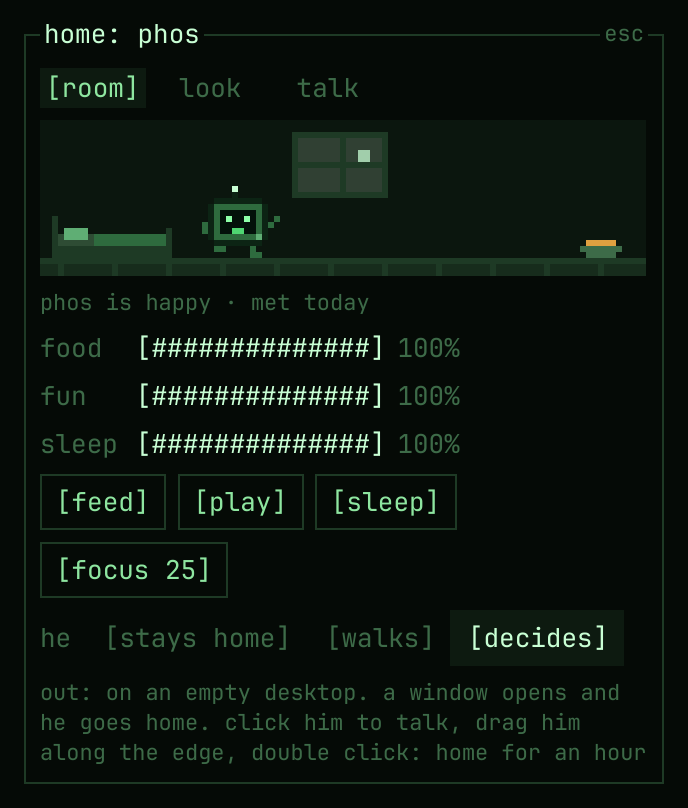
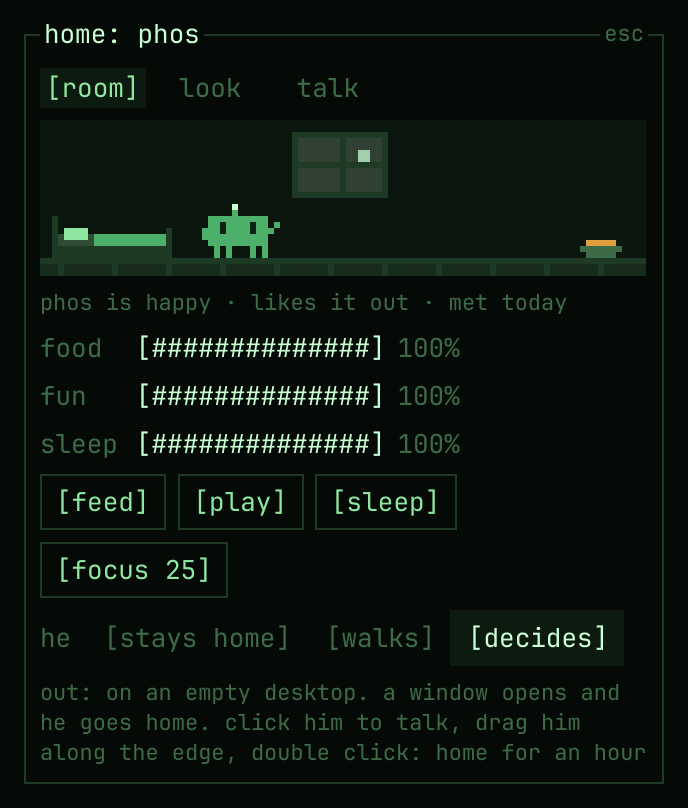
readme: the new plain companions in the pictures, the cfg pages named where a setting lives, windows at their own size, the monitors asked again on a second run

diff --git a/README.md b/README.md
@@ -77,19 +77,20 @@ and running it again is safe. More below: [what the installer does](#what-the-in
 | style | wallpapers (arrow keys to pick) + themes: `mono` `amber` `phosphor` `thinkpad` and `wallpaper` (colors taken from the wallpaper: background, borders, terminal, in calm / strong / full strength), each dark (CRT) or light (paper); your own in `~/.config/kawt/themes.json` (see [your own look](#your-own-look)). With awww installed kawt starts its daemon itself, at login with the last wallpaper: no line in hyprland's config. A new one by itself every 15 min … 3 h if you like (the next in the folder or a random one), with awww's transition picked there: `crt` (drawn in from the top, in steps, like an old screen's beam), fade, grow, random or none |
 | theme export | switching themes recolors open terminals and GTK apps (thunar) live and rewrites colors for kitty, Hyprland borders, GTK, foot, alacritty and shell scripts, and kawt's folder icons; terminal colors in three looks: `crt` (monochrome ink), `soft` (calm, in the theme's hues), `vivid` (bright) |
 | coder | `[coder]` in the ai panel: an agent working in one project folder you pick. It lists, searches and reads files by itself; every change comes as a diff to `[apply]` or `[skip]`; `[undo]` puts back everything it changed. Nothing outside the folder can be touched. With `bubblewrap` it can also ask to run a command (tests, a build): each one waits for `[run]`, then goes into a sandbox with no network, the system read-only and the project the only writable place (its `.git` read-only too, so no hooks), a time limit, 2 GB, output cut at 64 KB; or in podman with an image you pulled (ai → cfg). What a command changed isn't in `[undo]`: that's what git is for. Wide mode shows its thinking as a small ascii network |
+| windows | profile → cfg → windows: the open windows, rofi-like with a `find>`; pick an app and from then on it floats at the size it asks for, in the middle, instead of stretched by the tiling (open ones change at once; a hyprland.lua is needed, kawt's list is lua) |
 | companion | a little pixel friend in `[⌂]`: he lives in the bar, walks on an empty desktop and works next to the coder. [below](#the-companion) |
-| lock | a terminal-style lock screen (`kawt lockTest` tries it safely: it unlocks itself after 30 s). It locks by itself before the machine sleeps (the lid, `systemctl suspend`, anything), on `loginctl lock-session`, and after 10 idle minutes (on a laptop the backlight dims 30 s before). A minute after locking the picture goes off: only the picture, wifi, music and downloads keep going, and any key or the mouse brings it back (off / 1 / 2 / 5 min in profile → cfg). `[caf]` in the profile keeps the screen on. The lock screen says `[!] caps lock is on` when it is. No hypridle / hyprlock needed. Behind the lock kawt rests too: the net graph, brightness, cava and the bar's animations pause |
+| lock | a terminal-style lock screen (`kawt lockTest` tries it safely: it unlocks itself after 30 s). It locks by itself before the machine sleeps (the lid, `systemctl suspend`, anything), on `loginctl lock-session`, and after 10 idle minutes (on a laptop the backlight dims 30 s before). A minute after locking the picture goes off: only the picture, wifi, music and downloads keep going, and any key or the mouse brings it back (off / 1 / 2 / 5 min in profile → cfg → screen). `[caf]` in the profile keeps the screen on. The lock screen says `[!] caps lock is on` when it is. No hypridle / hyprlock needed. Behind the lock kawt rests too: the net graph, brightness, cava and the bar's animations pause |
 | osd | volume / brightness pop up when they change; plugging the charger in or out shows the battery; low battery notifies at 20 / 10 / 5% |
 | bluetooth | `[bt airpods 80%]`: on/off, scan, pair, connect, forget, headphone battery |
 | mic | `[mic ● discord]` appears while an app records you (red), click to mute |
 | player | `[> ▂▅▃▇▂]` next to the clock (real sound with `cava`); click: the cover as an old phosphor screen shows it (a few big pixels in the theme's color), a wide spectrum, `[-10] [<<] [||] [>>] [+10]`, a position bar to click, drag or scroll, shuffle and loop, the player's own volume, tabs when several play (spotify / firefox / mpv: the bar and the media keys follow the one picked, or the last one started) and this session's tracks (click copies "artist — title", nothing is written down). Keys inside: `space` `←→` `↑↓` `n` `p` `s` `r` `tab`. Covers that live online (spotify's) load only after `[cover load from the net]` |
-| recording | `[● rec 0:42]` in the bar; area or whole screen; sound: off, the mic, what you hear, or both mixed (profile → cfg) |
-| screenshots | area / window / screen; the screen stands still while you pick the area (`hyprpicker`); a preview in the corner asks: `[copy]` `[save]` `[open]`, `[edit]` (arrows, boxes, text, blur in `satty`) and `[text]` (what's written in the shot, onto the clipboard, with `tesseract`) (click the picture: open, right click: away; left alone, it goes and nothing is kept). `[x] ask` off in profile → cfg: saved and copied at once, like before |
+| recording | `[● rec 0:42]` in the bar; area or whole screen; sound: off, the mic, what you hear, or both mixed (profile → cfg → media) |
+| screenshots | area / window / screen; the screen stands still while you pick the area (`hyprpicker`); a preview in the corner asks: `[copy]` `[save]` `[open]`, `[edit]` (arrows, boxes, text, blur in `satty`) and `[text]` (what's written in the shot, onto the clipboard, with `tesseract`) (click the picture: open, right click: away; left alone, it goes and nothing is kept). `[x] ask` off in profile → cfg → media: saved and copied at once, like before |
 | fastfetch | short system info next to your system's own logo (arch on arch), a `[####----]` memory meter, in the current theme's colors (rewritten on every theme switch); nothing that says who or where you are (no user@host, laptop model or addresses), so it's safe to screenshot |
 | prompt | for zsh (plain zsh, oh-my-zsh not needed): `┌[user]─[~/dir]─[branch*]` / `└$` (`[user@host]` only over ssh), the time on the right, the exit code when a command fails; while typing, the rest of a command from history (→ takes it) and the command marked: accent if it exists, warn if it's a typo; in the theme's own accent / dim / warn colors, switching with it at the next prompt |
 | night light | warmer colors in the `[br]` panel or the profile's cfg (runs `hyprsunset`) |
-| bar | at the top or the bottom, its height and buttons in profile → cfg; `super + shift + b` tucks it away (no room taken, a 2 px edge: touch it with the pointer and the bar comes out over the windows until you leave) |
-| also | wifi (hidden networks too: `[+ hidden network]` in the panel), volume per app, brightness (on a desktop the monitors' own, over DDC/CI with `ddcutil`), battery + power profiles, calendar, tray, keyboard layout (and, if you switch it on in profile → cfg, a layout per window: each keeps its own, a new one starts with the first) |
+| bar | at the top or the bottom, its height and buttons in profile → cfg → look; `super + shift + b` tucks it away (no room taken, a 2 px edge: touch it with the pointer and the bar comes out over the windows until you leave) |
+| also | wifi (hidden networks too: `[+ hidden network]` in the panel), volume per app, brightness (on a desktop the monitors' own, over DDC/CI with `ddcutil`), battery + power profiles, calendar, tray, keyboard layout (and, if you switch it on in profile → cfg → device, a layout per window: each keeps its own, a new one starts with the first) |
 
 ## The companion
 
@@ -97,13 +98,13 @@ and running it again is safe. More below: [what the installer does](#what-the-in
 <img src="assets/companions.gif" alt="the five looks: phos, amber, floppy, bug, ghost" width="100%">
 </p>
 
-`[⌂]` in the bar is the house of a little pixel friend, a few cells like Claude Code's: a green monitor, an amber one with horns, a floppy disk that looks out of its window, a purple bug, a pale ghost, or one in your theme's colors (your own: `~/.config/kawt/companions.json`, the format is in `utils/companions.js`). He gets hungry, bored and sleepy with time: feed him, play, put him to bed; left alone too long he sulks (he never dies), and food and a game bring him round.
+`[⌂]` in the bar is the house of a little pixel friend, plain like Claude Code's (a solid body, two eyes, little arms and legs): a green monitor with an antenna, an amber one with horns, a floppy disk with its shutter, a purple bug, a pale ghost, or one in your theme's colors (your own: `~/.config/kawt/companions.json`, the format is in `utils/companions.js`). He gets hungry, bored and sleepy with time: feed him, play, put him to bed; left alone too long he sulks (he never dies), and food and a game bring him round.
 
-On the first start he says hello and shows around in six short steps (keys, the look, the ai, his house), in english or russian, and you can name him there (again: profile → cfg → `[tour]`).
+On the first start he says hello and shows around in six short steps (keys, the look, the ai, his house), in english or russian, and you can name him there (again: profile → cfg → kawt → `[tour]`).
 
 Out on an empty desktop he walks about, dances to music, naps (a window opens and he goes home; drag him along the edge, click him to talk, double click: home for an hour). He peeks out of the corner when the battery gets low, the charger comes, a screenshot is taken, the recording starts (a red light on his antenna), a reminder rings, a new kawt is out (lvl up), and once a night to say it's late; never over a fullscreen window or in do not disturb. Next to the coder he thinks, types, raises a flag on a diff, cheers, holds his head on an error, sweeps up after `[undo]`.
 
-A pomodoro (25 + 5) in his house. He speaks english or russian, with your own phrases; asks for food and play in a notification if you like (3 a day at most). Off in profile → cfg: no house, nothing runs for him
+A pomodoro (25 + 5) in his house. He speaks english or russian, with your own phrases; asks for food and play in a notification if you like (3 a day at most). Off in profile → cfg → kawt: no house, nothing runs for him
 
 <p align="center">
 <img src="assets/companion-moves.gif" alt="phos walks, eats, thinks, codes with you, raises a flag on a diff, sweeps up after undo, sleeps" width="100%">
@@ -152,7 +153,7 @@ A pomodoro (25 + 5) in his house. He speaks english or russian, with your own ph
   (each at its own best mode, side by side) or by hand, each one by its name: its mode and
   refresh rate from the ones it has (or typed, `2560x1080@75`, `highrr`), or off; then its
   position (`0x0`, `auto-right`...), scale and turning. From a console it knows the sizes
-  only; inside Hyprland the refresh rates too. Again any time: `./install.sh --monitors`
+  only; inside Hyprland the refresh rates too. Again any time: `./install.sh --monitors`, or `./install.sh` once more (with a config already there it asks whether to set them again)
   (the rules go into a block of their own in `user.lua`, or the end of your `hyprland.lua` /
   `hyprland.conf`, and Hyprland reads them at once; auto takes the block out)
 - an NVIDIA card: offers Hyprland's environment for it (`hypr/nvidia.lua`: video decoding on
@@ -219,7 +220,7 @@ prompt, fastfetch) and lists what to install yourself; quickshell itself: see
 ./install.sh --help
 ```
 
-**Updating.** `./install.sh --update` (or `[update]` in profile → cfg, or
+**Updating.** `./install.sh --update` (or `[update]` in profile → cfg → kawt, or
 `qs -c kawt-shell ipc call kawt update`): shows what's new, asks, `git pull`s, then the new
 installer adds what the new version needs for the parts you have (new packages, links), starts
 the shell again and reloads Hyprland. Optional packages new in that version (like `satty` for
@@ -228,7 +229,7 @@ checks that all the packages of your parts are there and that their libraries ar
 `pacman -Dk` finds missing gets installed, and an AUR quickshell that can't load its own
 libraries (`ldd`) is built again. Your own things are outside the repo and stay as they
 are; changes made inside the repo stop it, with a list (`git stash` can put them aside).
-Knowing about a new version means asking github: `[check]` in profile → cfg does it once
+Knowing about a new version means asking github: `[check]` in profile → cfg → kawt does it once
 (`git fetch`), and kawt does it by itself once a week, with a notification only when there's
 something new (`[update]` on it; the companion jumps). "look for updates once a week" there
 switches that off: then nothing goes out unless you press `[check]`.
@@ -262,7 +263,7 @@ without it, only while `super + w` is open.
 | `super + w` / `super + shift + w` | wallpaper & themes / dark ↔ light |
 | `super + n` / `super + shift + n` | notifications / do not disturb |
 | `super + i` | profile, full screen (`[~]` opens the small one) |
-| `super + l` | lock screen (it also locks by itself: before sleep, and after 10 idle minutes; any time or off in profile → cfg) |
+| `super + l` | lock screen (it also locks by itself: before sleep, and after 10 idle minutes; any time or off in profile → cfg → screen) |
 | `super + /` | all keys (read from `hypr/kawt.lua`, then the binds of your config that end with a `-- comment`: `hyprland.lua`, or `user.lua` and the standard config) |
 | `super + shift + b` | tuck the bar away / back (tucked, it comes out when the pointer touches the edge) |
 | `super + escape` | power menu: shutdown / reboot / suspend / logout / lock, with a 5 s countdown |
@@ -304,7 +305,7 @@ if you switch it to an OpenAI-compatible api, the key is kept in
 
 Nothing in the repo has to be edited, so updates never fight with your changes:
 
-- **font, bar**: profile → cfg. Font size (the panels grow with it) and family (a monospace
+- **font, bar**: profile → cfg → look. Font size (the panels grow with it) and family (a monospace
   one), the bar at the top or the bottom, its height, and which buttons it shows (one switched
   off still works on its key; `[● rec]`, `[cast]` and `[caf]` always show while they're on)
 - **colors**: `~/.config/kawt/themes.json`, read again whenever it's saved. A new name is a new
